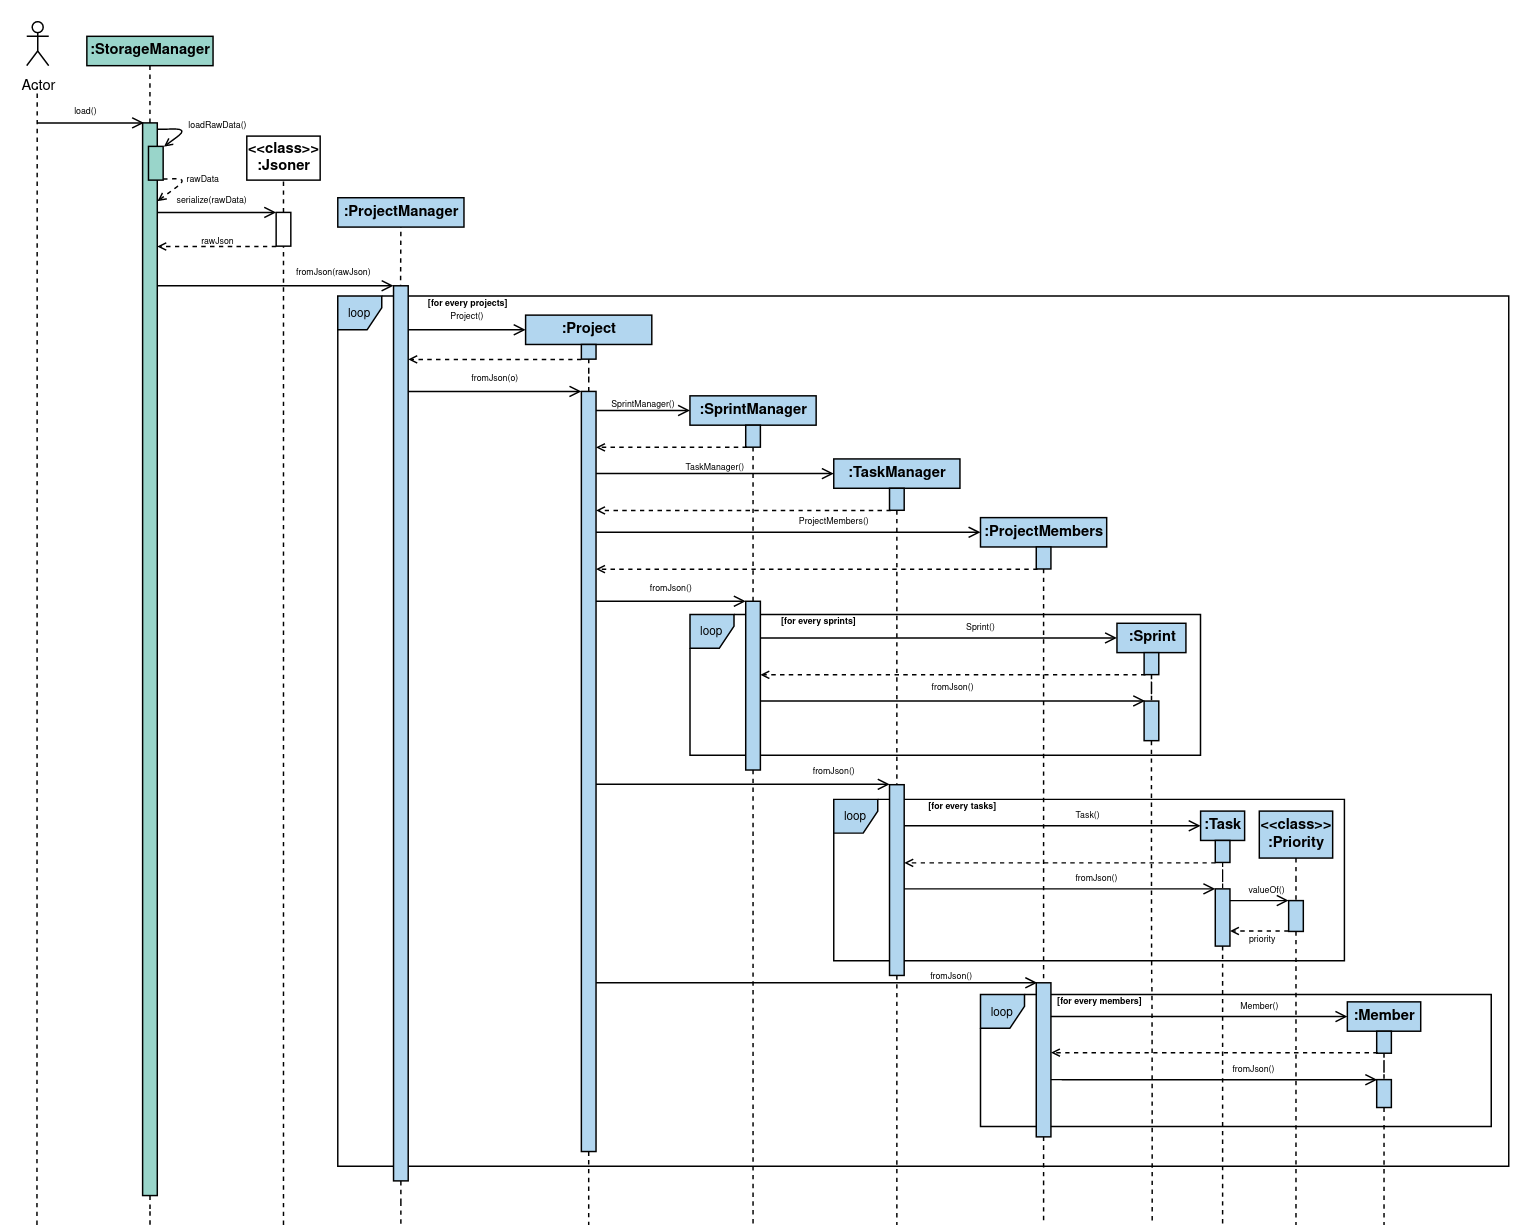
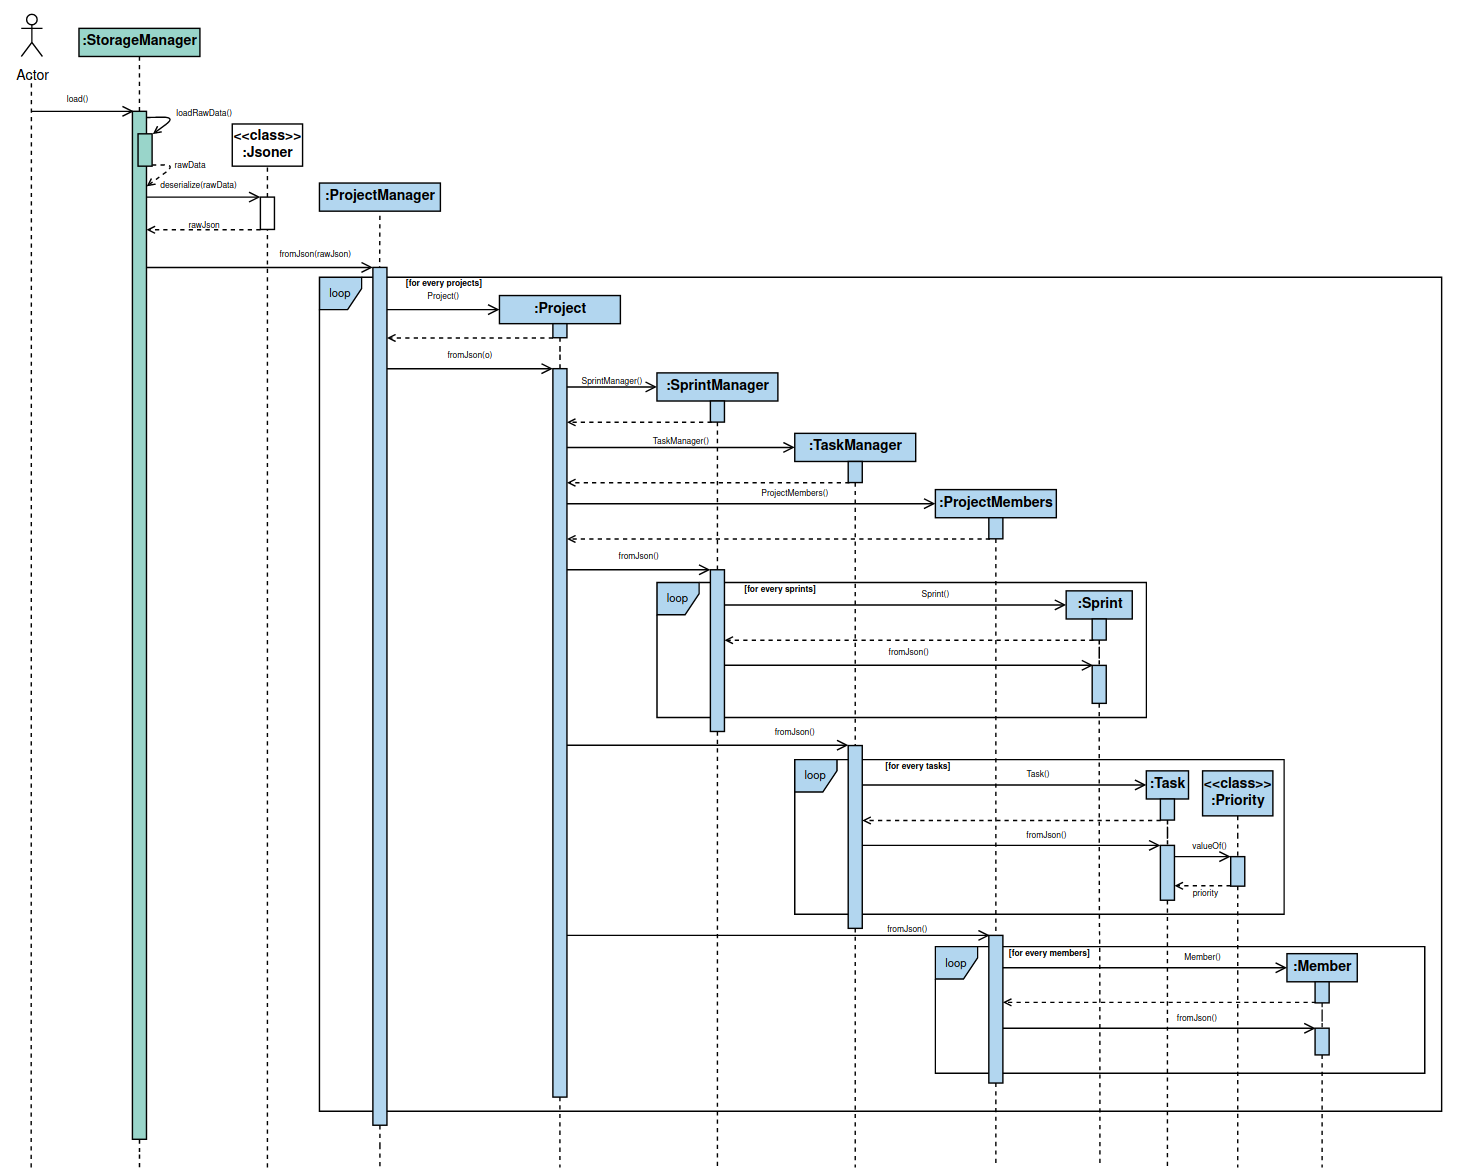
Update developer guide - Fix typo - Fix typo in diagram - Other minor changes

diff --git a/docs/DeveloperGuide.md b/docs/DeveloperGuide.md
@@ -591,7 +591,7 @@ This can be useful in certain scenarios such as fixing the data file in the even
 _Figure X: Running the Jar or in IDE_
 
 As shown in the above diagram, the program will save the data as _"data.json"_. The data file is saved in the _“data/”_ folder that is located in the folder of the program. If you are testing the program using Intellij IDE, the _“data/”_ folder will be in the root of the project folder.  
-When you start the program, the program will load the data file from its respective location and deserialise it into its respective objects. Data will be saved when the program exits or whenever the user makes changes to the program.  
+When you start the program, the program will load the data file from its respective location and deserialise it into its respective objects. Data will be saved when the program exits or whenever the user makes changes to the data.  
 
 #### 4.4.2. Loading Data
 ![Figure X: Loading Data](image/developerguide/storage_load.png "Loading Data")  
@@ -603,11 +603,11 @@ The program will only load the data file in the persistent storage during the in
 3. `load()` will read the data file from the persistent storage, deserialise it into a `JsonObject` object and attempt to convert the object into its respective types.  
   
 **Failure to Load**  
-If the program fails to load the data file, it will proceed in an empty state. Any subsequent saves invoked by any command that changes the empty state, or exiting the program using `bye` will cause the erroneous data file **to be deleted**.  
+If the program fails to load the data file, it will proceed in an empty state. Any subsequent saves invoked by any command that changes the empty state, or exiting the program using `bye` will cause the erroneous data file (if any) **to be deleted**.  
 
 The program will fail to load the data file if **any of the following conditions are met**:
 * I/O error trying to read the file.
-* Error parsing the fail as JSON format.
+* Error parsing due to incorrect JSON format.
 * Conversion error due to missing properties.
 * Mapping error due to invalid property type (e.g. "name" is expecting a `String` but data read is an `Integer`).
 
@@ -630,7 +630,7 @@ As explained in [Storage Component](#storage-component), each model class except
       3. Call `fromJson()` of the newly created object, passing the property as the parameter (e.g. `Sprint.fromJson()`).
       4. New object's `fromJson()` will **repeat the same process again under Step 4** for its own properties.  
       
-* `Priority` is an **enum** and is the only model which does not follow this strictly. It is mapped by type casting
+\*`Priority` is an **enum** and is the only model which does not follow this strictly. It is mapped by type casting
  the property as `String` first, then calling the `Priority.valueOf()` method to convert it into its respective **enum**.  
 
 #### 4.4.3. Saving Data
@@ -649,7 +649,7 @@ Changes made to the data during the runtime of the program can only be made by e
    
 As shown in the diagram above, each command class inherits the `shouldSave` property from `Command` class. `shouldSave` is a boolean variable and is initialised inside the constructor. `shouldSave` will be set to `true` if the command results in a change of data (e.g. adding a task, creating a sprint etc.), otherwise it is set to `false` (e.g. viewing projects, sprints etc.).
 
-After executing the command by calling `execute()`, the program will call `save()` from `StorageManager` object if the `shouldSave` is set to `true`.
+After executing the command by calling `execute()`, the program will call `save()` from `StorageManager` object if the `shouldSave` property is set to `true`.
 
 ##### 4.4.3.3. Serialising Objects to JSON  
 ![Figure X: Serialising Sequence](image/developerguide/storage_save_serialise.png "Serialising Sequence")  
@@ -658,9 +658,9 @@ _Figure X: Serialising Sequence_
 As explained in [Storage Component](#storage-component), each model class except for `Priority` will inherit either `JsonableObject` or `JsonableArray` which are custom interfaces inheriting the `Jsonable` interface of _**json.simple**_. This requires the classes to implement the methods `toJson()` and `fromJson()`. This section will focus on `toJson()`, which is used to implement the logic for **serialising objects into JSON string**.  
 When saving the data as JSON file, `StorageManager` will call `Jsoner.serialize()` of the _**json.simple**_, passing in the `ProjectManager` and `FileWriter` (points to the data file) object as the parameters. The library will automatically serialise the objects and sub-objects into JSON string depending on the type of the objects:
  1. **Primitive and Standard Types (e.g. `int`, `String`, `Collection`)**: The library can directly serialise these types into JSON string.
- 2. **Scrumptious Model Types (e.g. `Project`, `Task`)**: The library will serialise these types by calling its `toJson()` method which contains the logic for the serialisation.  
+ 2. **\*Scrumptious Model Types (e.g. `Project`, `Task`)**: The library will serialise these types by calling its `toJson()` method which contains the logic for the serialisation.  
     
-* `Priority` is an exception, it is serialised by calling `name()` of the **enum** which will return its `String
+\*`Priority` is an exception, it is serialised by calling `name()` of the **enum** which will return its `String
 ` representation.
     
 
